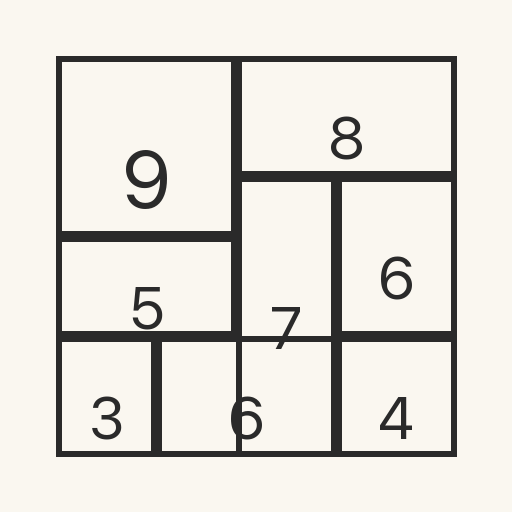
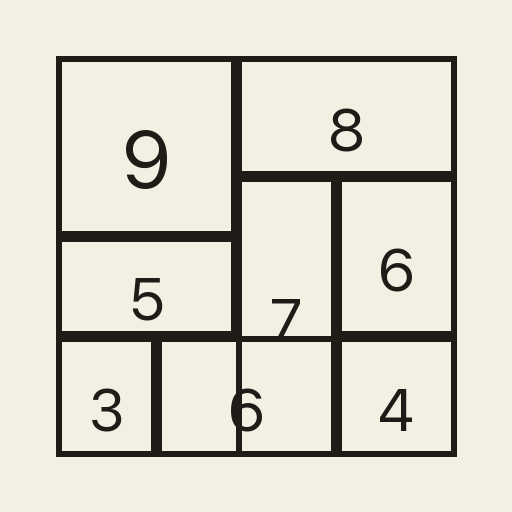
style: ship brand v1 — warmer paper/ink palette, wordmark, segmented difficulty, dashed drag preview
Palette: paper #F4EFE3, ink #1F1B17 (light) / paper #ECE7DD, ink #18171A
(dark). Error muted to terracotta #B25441 / #E08470. Topbar bg tuned to
match the paper warmth.

Wordmark: lowercase serif "shikaku" anchored top-left of the topbar.
Difficulty picker: segmented button group (Easy / Medium / Hard) with
aria-pressed state instead of the native select dropdown.
Drag preview: soft fill + dashed border, replaces the flat translucent
fill so commit/no-commit is visually clearer.
Numerals: weight 500 instead of bold.
Icon and PWA manifest colors updated to match.

diff --git a/app.css b/app.css
@@ -1,17 +1,17 @@
 :root {
-  --bg: #FAF7F0;
-  --fg: #2A2A2A;
-  --grid: #2A2A2A;
-  --topbar-bg: #F1ECE0;
-  --error: #C04A3F;
+  --bg: #F4EFE3;
+  --fg: #1F1B17;
+  --grid: #1F1B17;
+  --topbar-bg: #ECE4D2;
+  --error: #B25441;
 }
 @media (prefers-color-scheme: dark) {
   :root {
-    --bg: #1A1A1A;
-    --fg: #E8E5DE;
-    --grid: #E8E5DE;
-    --topbar-bg: #232323;
-    --error: #E27970;
+    --bg: #18171A;
+    --fg: #ECE7DD;
+    --grid: #ECE7DD;
+    --topbar-bg: #221F25;
+    --error: #E08470;
   }
 }
 
@@ -52,6 +52,37 @@ body {
   padding: 6px 10px;
 }
 .topbar button:active { opacity: 0.6; }
+
+.wordmark {
+  font-family: ui-serif, "Iowan Old Style", Charter, Georgia, "Times New Roman", serif;
+  font-size: 18px;
+  font-weight: 500;
+  letter-spacing: -0.01em;
+  margin-right: 8px;
+  text-transform: lowercase;
+}
+
+.segment {
+  display: inline-flex;
+  border: 1px solid var(--fg);
+  border-radius: 6px;
+  overflow: hidden;
+}
+.segment button {
+  font: inherit;
+  color: var(--fg);
+  background: transparent;
+  border: none;
+  border-right: 1px solid var(--fg);
+  padding: 6px 12px;
+  border-radius: 0;
+}
+.segment button:last-child { border-right: none; }
+.segment button[aria-pressed="true"] {
+  background: var(--fg);
+  color: var(--bg);
+}
+.segment button:active { opacity: 0.6; }
 
 .board-wrap {
   flex: 1 1 auto;

diff --git a/js/ui.js b/js/ui.js
@@ -92,27 +92,33 @@ export function createUI({ canvas, getState, getPuzzle, onCommit, onDelete }) {
       }
     }
 
-    // Drag preview.
+    // Drag preview: soft fill + dashed border.
     if (drag) {
       const prev = rectFromAnchorTo(drag.anchor, drag.current);
       const cluesInside = puzzle.clues.filter(
         (c) => c.row >= prev.top && c.row <= prev.bottom && c.col >= prev.left && c.col <= prev.right,
       );
-      // For overlap check, exclude any rectangle whose clue sits inside the preview
-      // (so that re-drawing over an existing committed rect doesn't immediately tint red).
-      const insideAnchorKeys = new Set(cluesInside.map((c) => `${c.row},${c.col}`));
-      const otherRects = rects.filter((r) => !insideAnchorKeys.has(`${r.anchor.row},${r.anchor.col}`));
+      const otherRects = rects.filter(
+        (r) => !(cluesInside.length === 1 && r.anchor.row === cluesInside[0].row && r.anchor.col === cluesInside[0].col),
+      );
       const overlaps = otherRects.some((o) => rectsOverlap(o, prev));
-      let invalid;
-      if (cluesInside.length !== 1) {
-        invalid = true;
-      } else {
-        invalid = overlaps || rectArea(prev) !== cluesInside[0].number;
-      }
-      ctx.fillStyle = invalid ? errColor : overlay;
-      ctx.globalAlpha = 0.5;
-      ctx.fillRect(prev.left * cellSize, prev.top * cellSize, (prev.right - prev.left + 1) * cellSize, (prev.bottom - prev.top + 1) * cellSize);
+      const wrongArea = cluesInside.length !== 1 || rectArea(prev) !== cluesInside[0].number;
+      const isError = overlaps || wrongArea;
+      const x = prev.left * cellSize;
+      const y = prev.top * cellSize;
+      const w = (prev.right - prev.left + 1) * cellSize;
+      const h = (prev.bottom - prev.top + 1) * cellSize;
+      // Soft fill (~6% alpha on the ink overlay base, error tint at 35%).
+      ctx.fillStyle = isError ? errColor : fg;
+      ctx.globalAlpha = isError ? 0.35 : 0.06;
+      ctx.fillRect(x, y, w, h);
       ctx.globalAlpha = 1;
+      // Dashed border, ink (or error) colour.
+      ctx.strokeStyle = isError ? errColor : fg;
+      ctx.lineWidth = 1.5;
+      ctx.setLineDash([6, 4]);
+      ctx.strokeRect(x + 1, y + 1, w - 2, h - 2);
+      ctx.setLineDash([]);
     }
 
     // Grid lines.
@@ -129,7 +135,7 @@ export function createUI({ canvas, getState, getPuzzle, onCommit, onDelete }) {
     ctx.fillStyle = fg;
     ctx.textAlign = 'center';
     ctx.textBaseline = 'middle';
-    ctx.font = `bold ${Math.floor(cellSize * 0.55)}px -apple-system, system-ui, sans-serif`;
+    ctx.font = `500 ${Math.floor(cellSize * 0.55)}px -apple-system, system-ui, sans-serif`;
     for (const clue of puzzle.clues) {
       ctx.fillText(String(clue.number), clue.col * cellSize + cellSize / 2, clue.row * cellSize + cellSize / 2);
     }

diff --git a/js/app.js b/js/app.js
@@ -10,7 +10,16 @@ const btnNew = document.getElementById('btn-new');
 const btnUndo = document.getElementById('btn-undo');
 const btnRestart = document.getElementById('btn-restart');
 const btnCheck = document.getElementById('btn-check');
-const difficultySel = document.getElementById('difficulty');
+const diffButtons = {
+  easy: document.getElementById('diff-easy'),
+  medium: document.getElementById('diff-medium'),
+  hard: document.getElementById('diff-hard'),
+};
+function setDifficultyUI(diff) {
+  for (const [k, btn] of Object.entries(diffButtons)) {
+    btn.setAttribute('aria-pressed', k === diff ? 'true' : 'false');
+  }
+}
 const solvedModal = document.getElementById('solved-modal');
 const btnNext = document.getElementById('btn-next');
 
@@ -66,7 +75,7 @@ function clearSave() {
 
 function startNewPuzzle(diff = difficulty) {
   difficulty = diff;
-  difficultySel.value = diff;
+  setDifficultyUI(diff);
   const [w, h] = SIZES[diff];
 
   if (nextPuzzle && nextPuzzle.difficulty === diff) {
@@ -85,7 +94,7 @@ function restoreOrNew() {
   const blob = load();
   if (blob && blob.puzzle) {
     difficulty = blob.difficulty || 'medium';
-    difficultySel.value = difficulty;
+    setDifficultyUI(difficulty);
     puzzle = blob.puzzle;
     state = createState(puzzle, { rectangles: blob.rectangles || [] });
     prepareNextPuzzle(difficulty);
@@ -129,17 +138,18 @@ btnCheck.addEventListener('click', () => {
     alert(n === 0 ? 'No errors yet — keep going.' : `${n} rectangle(s) flagged.`);
   }
 });
-difficultySel.addEventListener('change', (ev) => {
+function onDifficultyClick(targetDiff) {
+  if (targetDiff === difficulty) return;
   if (state.rectangles().length > 0 && !state.isComplete()) {
-    if (!confirm('Change difficulty and discard current puzzle?')) {
-      difficultySel.value = difficulty;
-      return;
-    }
+    if (!confirm('Change difficulty and discard current puzzle?')) return;
   }
   nextPuzzle = null;
   nextRequestSeq++;
-  startNewPuzzle(ev.target.value);
-});
+  startNewPuzzle(targetDiff);
+}
+for (const [k, btn] of Object.entries(diffButtons)) {
+  btn.addEventListener('click', () => onDifficultyClick(k));
+}
 btnNext.addEventListener('click', () => { solvedModal.close(); startNewPuzzle(difficulty); });
 
 restoreOrNew();

diff --git a/index.html b/index.html
@@ -5,8 +5,8 @@
   <meta name="viewport" content="width=device-width, initial-scale=1, viewport-fit=cover" />
   <meta name="apple-mobile-web-app-capable" content="yes" />
   <meta name="apple-mobile-web-app-status-bar-style" content="black-translucent" />
-  <meta name="theme-color" content="#FAF7F0" media="(prefers-color-scheme: light)" />
-  <meta name="theme-color" content="#1A1A1A" media="(prefers-color-scheme: dark)" />
+  <meta name="theme-color" content="#F4EFE3" media="(prefers-color-scheme: light)" />
+  <meta name="theme-color" content="#18171A" media="(prefers-color-scheme: dark)" />
   <link rel="manifest" href="manifest.webmanifest" />
   <link rel="apple-touch-icon" href="icons/icon-192.png" />
   <link rel="stylesheet" href="app.css" />
@@ -14,15 +14,16 @@
 </head>
 <body>
   <header class="topbar">
+    <span class="wordmark" aria-hidden="true">shikaku</span>
     <button id="btn-new" type="button" aria-label="New board">New board</button>
     <button id="btn-undo" type="button" aria-label="Undo">Undo</button>
     <button id="btn-restart" type="button" aria-label="Restart">Restart</button>
     <button id="btn-check" type="button" aria-label="Check">Check</button>
-    <select id="difficulty" aria-label="Difficulty">
-      <option value="easy">Easy (7×7)</option>
-      <option value="medium" selected>Medium (10×10)</option>
-      <option value="hard">Hard (15×15)</option>
-    </select>
+    <div class="segment" role="group" aria-label="Difficulty">
+      <button type="button" id="diff-easy" aria-pressed="false">Easy</button>
+      <button type="button" id="diff-medium" aria-pressed="true">Medium</button>
+      <button type="button" id="diff-hard" aria-pressed="false">Hard</button>
+    </div>
   </header>
   <main class="board-wrap">
     <canvas id="board" aria-label="Shikaku board"></canvas>